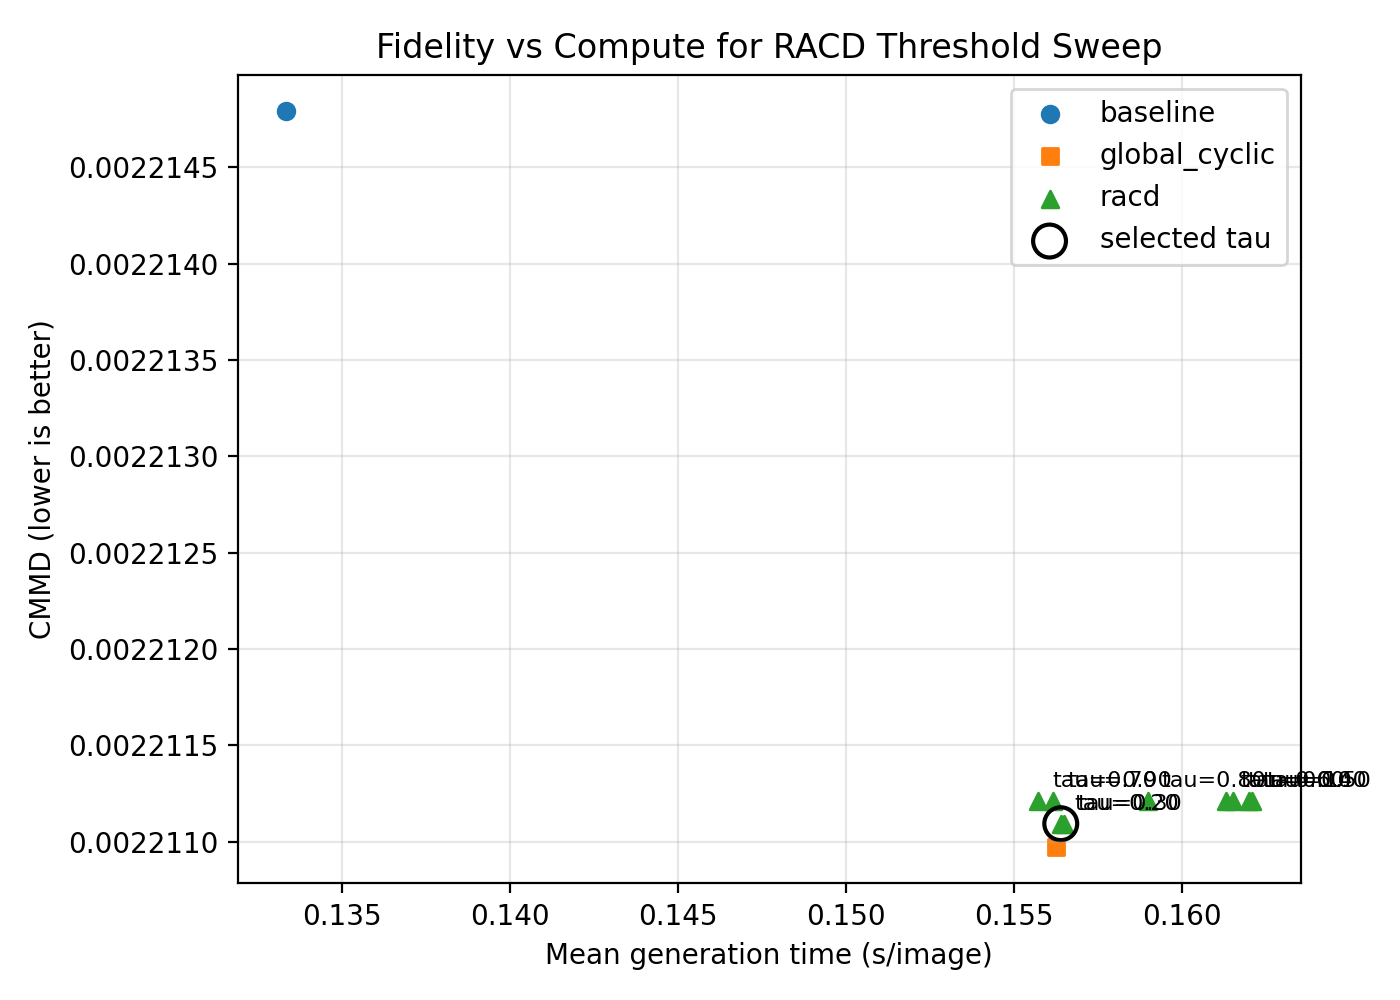
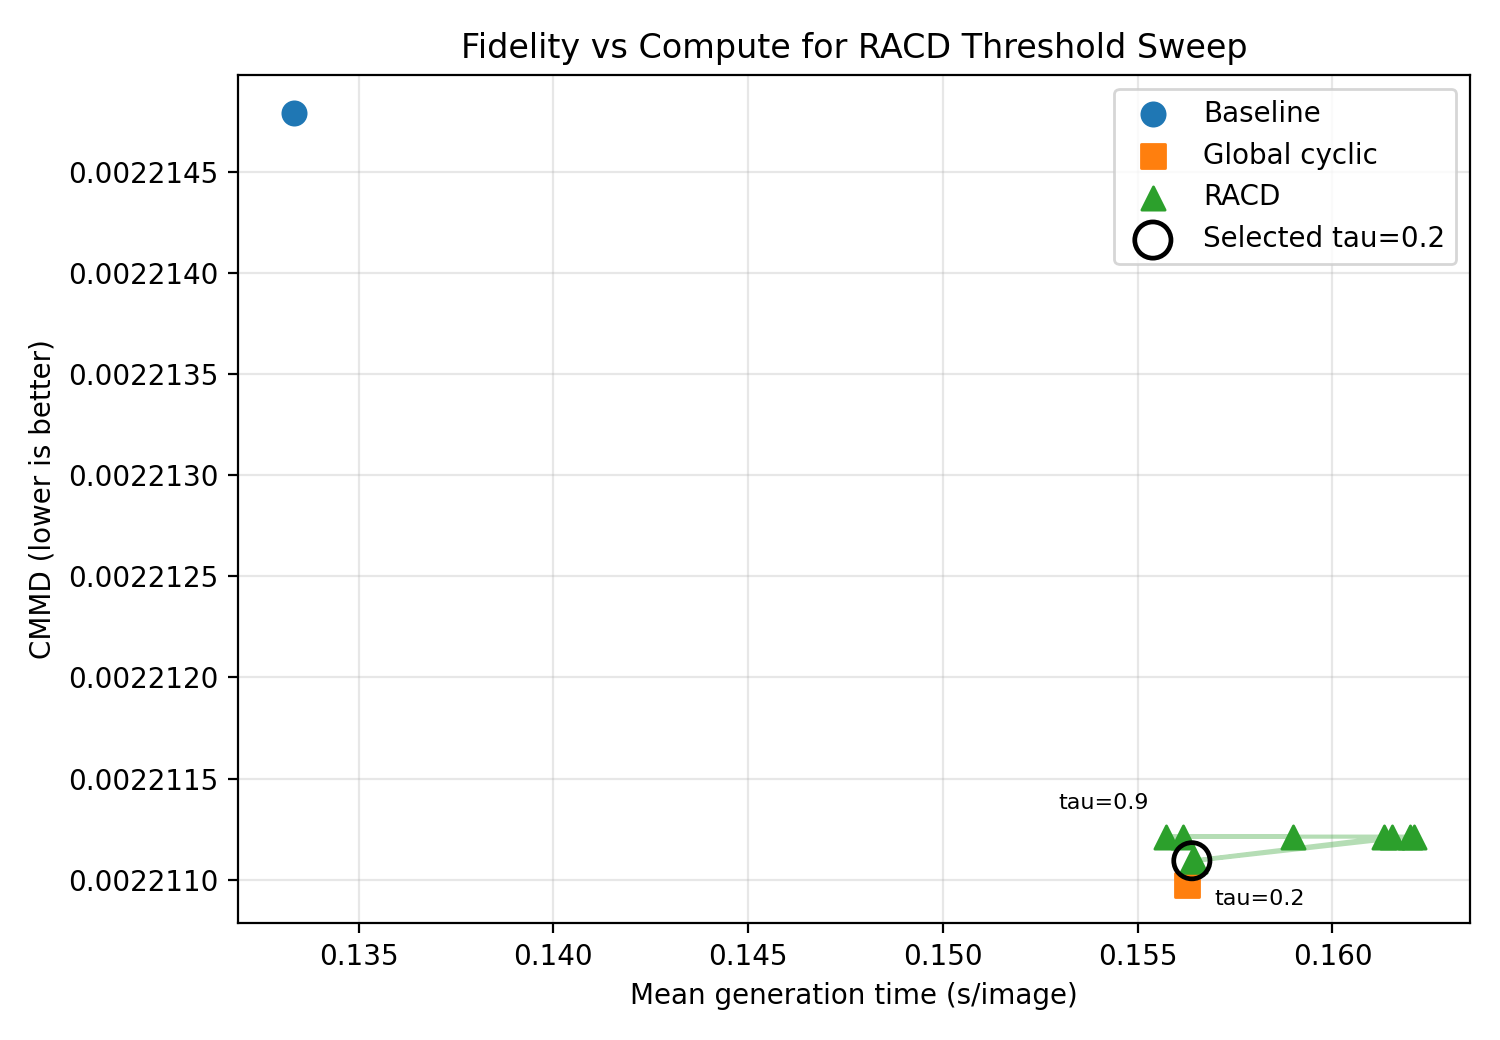
Polish diffusion result analysis

Changed region(s): [[0.0, 0.031, 0.9829, 0.992]]

diff --git a/SAiDL-Summer-Assignment-2026/reports/diffusion_report.tex b/SAiDL-Summer-Assignment-2026/reports/diffusion_report.tex
@@ -134,8 +134,7 @@ Global Cyclic & 349.11 & 0.0022110 & 0.1563 & 1.00 \\
 RACD $\tau=0.2$ & 349.10 & 0.0022111 & 0.1564 & 0.573 \\
 \bottomrule
 \end{tabular}
-\caption{Main comparison. Fill this table from
-\texttt{results/diffusion/tau\_sweep/tau\_sweep\_results.csv}.}
+\caption{Main comparison from the 256-image sweep.}
 \end{table}
 
 \begin{table}[h]
@@ -174,19 +173,30 @@ $\tau$ & CMMD $\downarrow$ & Time (s/img) & Refined Fraction \\
   \end{figure}
 }{}
 
-\section{Analysis To Complete After Runs}
+\section{Analysis}
 
-The final analysis should answer four questions directly:
-\begin{enumerate}
-  \item Does global cyclic refinement improve FID/CMMD or visual detail compared
-  with baseline sampling, and how much generation time does it add?
-  \item Which $\tau$ gives the best RACD fidelity/compute trade-off, and is it
-  on the Pareto frontier of the sweep?
-  \item Does RACD recover most of the global cyclic quality gain while refining
-  a smaller fraction of the latent grid?
-  \item Where does RACD fail visually? Boundary artifacts, texture washout, and
-  over-refinement should be inspected in generated image grids.
-\end{enumerate}
+The baseline DiT produced the best FID in this run, while global cyclic
+refinement produced the best CMMD. The global cyclic pass increased generation
+time from 0.1333 s/image to 0.1563 s/image, an approximately 17.2\% overhead.
+This suggests that the extra denoising pass changes CLIP-space semantics very
+slightly in the desired direction, but the effect is not strong enough to
+improve the Inception-space FID estimate on this checkpoint.
+
+Among RACD thresholds, $\tau=0.2$ is the best fidelity/compute choice: it ties
+the best RACD CMMD value, has nearly the lowest RACD runtime, and refines only
+57.3\% of latent locations instead of the full grid. Lowering the threshold to
+0.1 refines 81.7\% of locations but does not improve CMMD, while raising the
+threshold above 0.3 quickly reduces compute without improving the semantic
+metric. Thus the observed Pareto region is around $\tau \in \{0.2, 0.3\}$.
+
+RACD did not clearly outperform the baseline in this experiment. The main
+positive result is narrower: RACD at $\tau=0.2$ nearly matches global cyclic
+CMMD while applying refinement to a smaller spatial fraction. The negative
+result is also informative. The DiT checkpoint was trained for 4860 optimizer
+steps on 3888 training images, so the denoiser and difficulty predictor are
+likely undertrained relative to a full diffusion training run. The extremely
+small CMMD differences also indicate that this sweep should be interpreted as
+a pipeline validation and trade-off study rather than a definitive quality win.
 
 \section{Conclusion}
 
